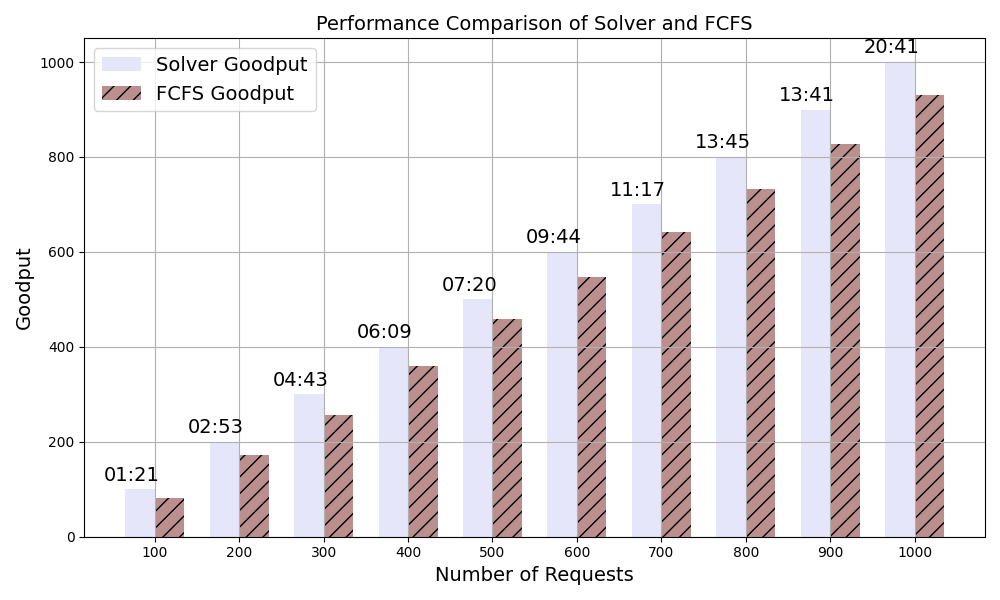
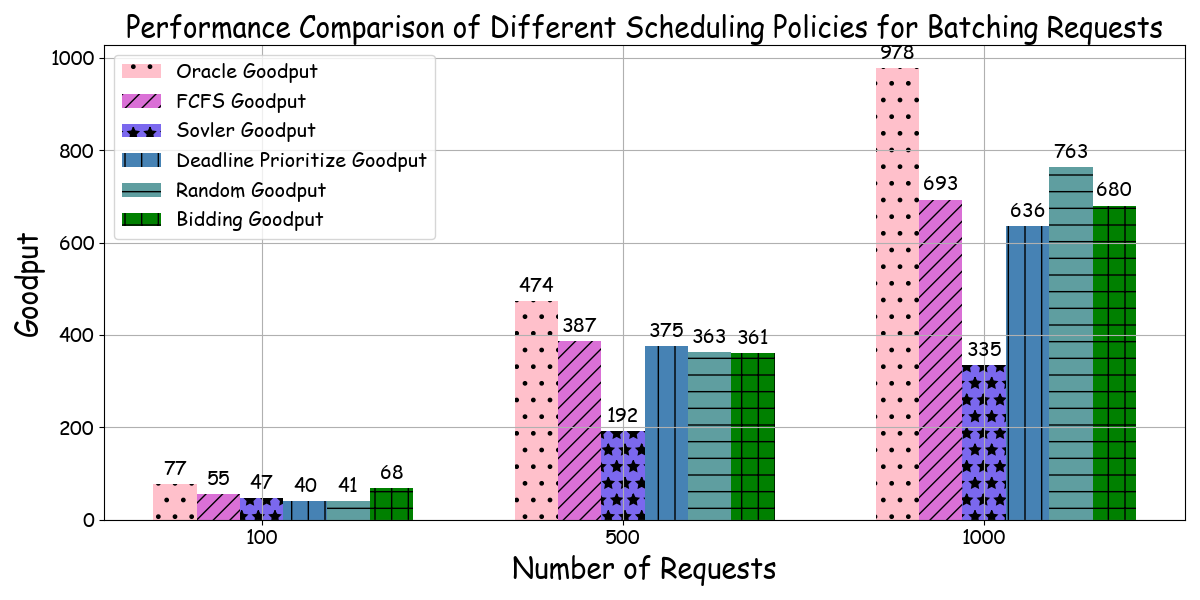
forbid log

diff --git a/results/visualize/visualize.py b/results/visualize/visualize.py
@@ -1,33 +1,51 @@
 import matplotlib.pyplot as plt
 
 # Data
-requests = [100, 200, 300, 400, 500, 600, 700, 800, 900, 1000]
-solver_goodput = [100, 200, 300, 400, 500, 600, 700, 800, 900, 1000]
-fcfs_goodput = [82, 173, 256, 360, 459, 547, 641, 732, 827, 930]
-timeline = ["01:21", "02:53", "04:43", "06:09", "07:20", "09:44", "11:17", "13:45", "13:41", "20:41"]
+requests = [100, 500, 1000]
+oracle_goodput = [77, 474, 978]
+fcfs_goodput = [55, 387, 693]
+solver_goodput = [47, 192, 335]
+deadline_goodput = [40, 375, 636]
+random_goodput = [41, 363, 763]
+bidding_goodput = [68, 361, 680]
 
 # Create the plot
-fig, ax = plt.subplots(figsize=(10, 6))
+plt.rcParams['font.family'] = 'Comic Sans MS'
+fig, ax = plt.subplots(figsize=(12, 6))
 
 # Bar positions
-bar_width = 0.35
+bar_width = 0.12
 index = range(len(requests))
 
 # Bars
-bars1 = plt.bar(index, solver_goodput, bar_width, color='lavender', label='Solver Goodput')
-bars2 = plt.bar([i + bar_width for i in index], fcfs_goodput, bar_width, color='rosybrown', hatch='//', label='FCFS Goodput')
+bars1 = plt.bar(index, oracle_goodput, bar_width, color='pink', hatch='.', label='Oracle Goodput')
+bars2 = plt.bar([i + bar_width for i in index], fcfs_goodput, bar_width, color='orchid', hatch='//', label='FCFS Goodput')
+bars3 = plt.bar([i + bar_width*2 for i in index], solver_goodput, bar_width, color='mediumslateblue', hatch='*', label='Sovler Goodput')
+bars4 = plt.bar([i + bar_width*3 for i in index], deadline_goodput, bar_width, color='steelblue', hatch='|', label='Deadline Prioritize Goodput')
+bars5 = plt.bar([i + bar_width*4 for i in index], random_goodput, bar_width, color='cadetblue', hatch='-', label='Random Goodput')
+bars6 = plt.bar([i + bar_width*5 for i in index], bidding_goodput, bar_width, color='green', hatch='+', label='Bidding Goodput')
+
+# Add text labels on the bars
+for i, v in enumerate(oracle_goodput):
+    plt.text(i, v + 20, str(v), ha='center', fontsize=14)
+for i, v in enumerate(fcfs_goodput):
+    plt.text(i + bar_width, v + 20, str(v), ha='center', fontsize=14)
+for i, v in enumerate(solver_goodput):
+    plt.text(i + bar_width*2, v + 20, str(v), ha='center', fontsize=14)
+for i, v in enumerate(deadline_goodput):
+    plt.text(i + bar_width*3, v + 20, str(v), ha='center', fontsize=14)
+for i, v in enumerate(random_goodput):
+    plt.text(i + bar_width*4, v + 20, str(v), ha='center', fontsize=14)
+for i, v in enumerate(bidding_goodput):
+    plt.text(i + bar_width*5, v + 20, str(v), ha='center', fontsize=14)
 
 # Labels and titles
-plt.xlabel('Number of Requests', fontsize=14)
-plt.ylabel('Goodput', fontsize=14)
-plt.title('Performance Comparison of Solver and FCFS', fontsize=14)
-plt.xticks([i + bar_width / 2 for i in index], requests)
+plt.xlabel('Number of Requests', fontsize=20)
+plt.ylabel('Goodput', fontsize=20)
+plt.title('Performance Comparison of Different Scheduling Policies for Batching Requests', fontsize=20)
+plt.xticks([i + bar_width * 2 for i in index], requests, fontsize=14)
+plt.yticks(fontsize=14)
 plt.legend(fontsize=14)
-
-# Add timeline annotations
-for i in range(len(requests)):
-    plt.text(i - 0.1, max(solver_goodput[i], fcfs_goodput[i]) + 10, timeline[i], ha='center', va='bottom', fontsize=14)
-
 plt.tight_layout()
 plt.grid()
 plt.savefig("goodput.png")

diff --git a/vllm_source/vllm/core/scheduler.py b/vllm_source/vllm/core/scheduler.py
@@ -269,7 +269,7 @@ class Scheduler:
         self.lora_config = lora_config
         print('=====================')
         print("chunked_prefill_enabled:", self.scheduler_config.chunked_prefill_enabled)
-        self.default_policy = PolicyFactory.get_policy(policy_name="fcfs")
+        self.default_policy = PolicyFactory.get_policy(policy_name="solver")
 
         if self.scheduler_config.chunked_prefill_enabled:
             self.prompt_limit = self.scheduler_config.max_model_len
@@ -436,7 +436,7 @@ class Scheduler:
         # groups to preempt.
         now = time.time()
         running_queue = policy.sort_by_priority(now, running_queue)
-        logging.info("len(waiting queue): "+str(len(self.waiting)))
+        #logging.info("len(waiting queue): "+str(len(self.waiting)))
         #all_requests = deque(list(running_queue) + list(self.swapped) + list(self.waiting) + list(self.future))
         #running_queue = self.sort_requests(all_requests, policy, running_queue, now)
         while running_queue:

diff --git a/results/result.md b/results/result.md
@@ -1,21 +1,13 @@
 ### Performance Comparison of Policies
-
-| Number of Requests | Solver Goodput | FCFS Goodput | Timeline        |
-|--------------------|----------------|--------------|-----------------|
-| 100                | 100            | 82           | 01:21 min       |
-| 200                | 200            | 173          | 02:53 min       |
-| 300                | 300            | 256          | 04:43 min       |
-| 400                | 400            | 360          | 06:09 min       |
-| 500                | 500            | 459          | 07:20 min       |
-| 600                | 600            | 547          | 09:44 min       |
-| 700                | 700            | 641          | 11:17 min       |
-| 800                | 800            | 732          | 13:45 min       |
-| 900                | 900            | 827          | 13:41 min       |
-| 1000               | 1000           | 930          | 20:41 min       |
+| request_num | oracle | fcfs | solver | deadline | random | bidding |
+|-------------|--------|------|--------|----------|--------|---------|
+| 100         | 77     | 55   | 47     | 40       | 41     | 68      |
+| 500         | 474    | 387  | 192    | 375      | 363    | 361     |
+| 1000        | 978    | 693  | 335    | 636      | 763    | 680     |
 
 ### Workload Configuration
 | Workload Type   | Proportion | Deadline          | Max Token |
 |-----------------|------------|-------------------|-----------|
-| Search          | 33%        | U(0.1, 0.5)       | 10        |
-| Chatbox         | 33%        | 0.5 * max_token=5 | 10        |
-| Batch Analysis  | 33%        | U(300, 3600)      | 10        |
+| Search          | 33%        | U(1, 2)           | 10        |
+| Chatbox         | 33%        | 0.2 * max_token=10| 50        |
+| Batch Analysis  | 33%        | U(300, 3600)      | 500       |
